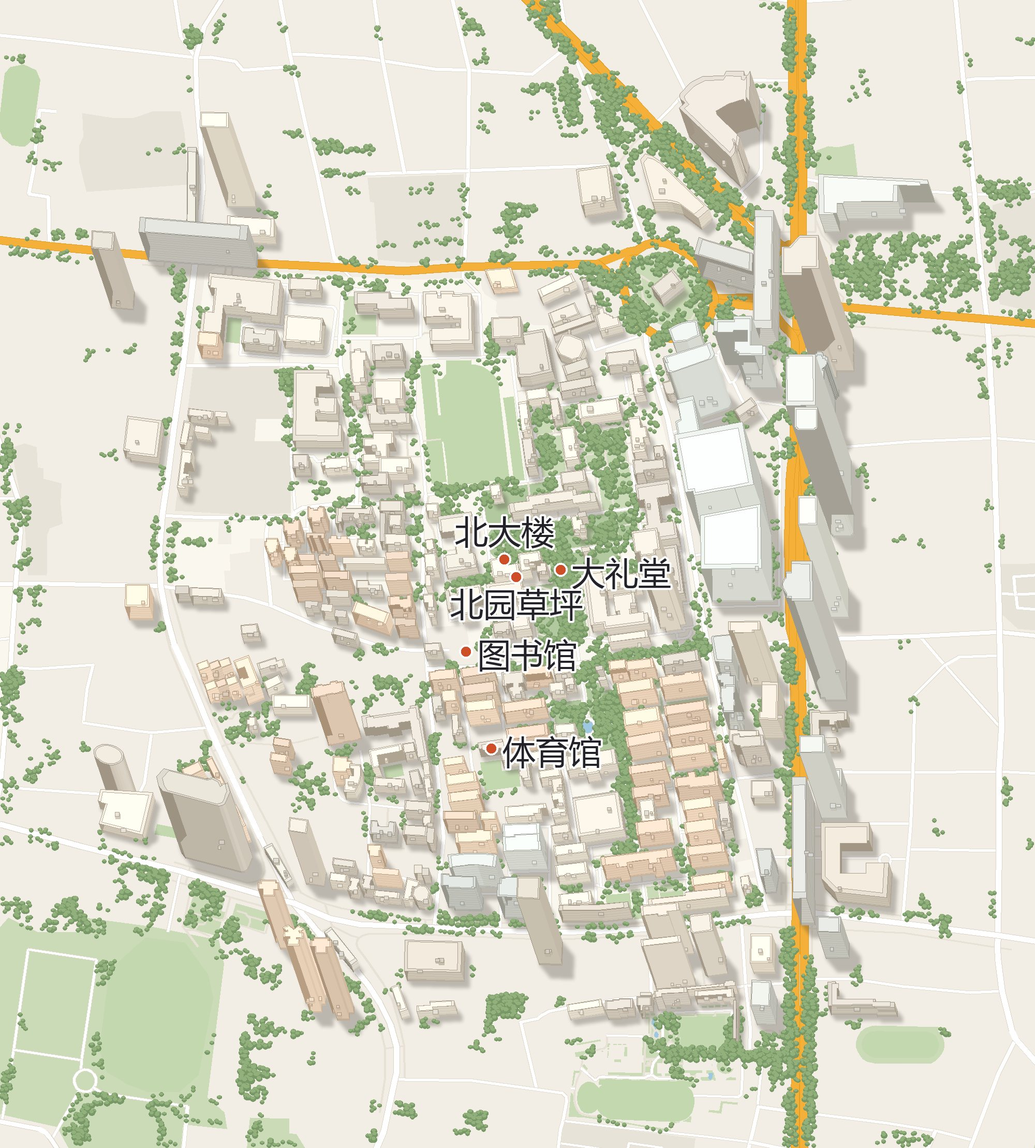
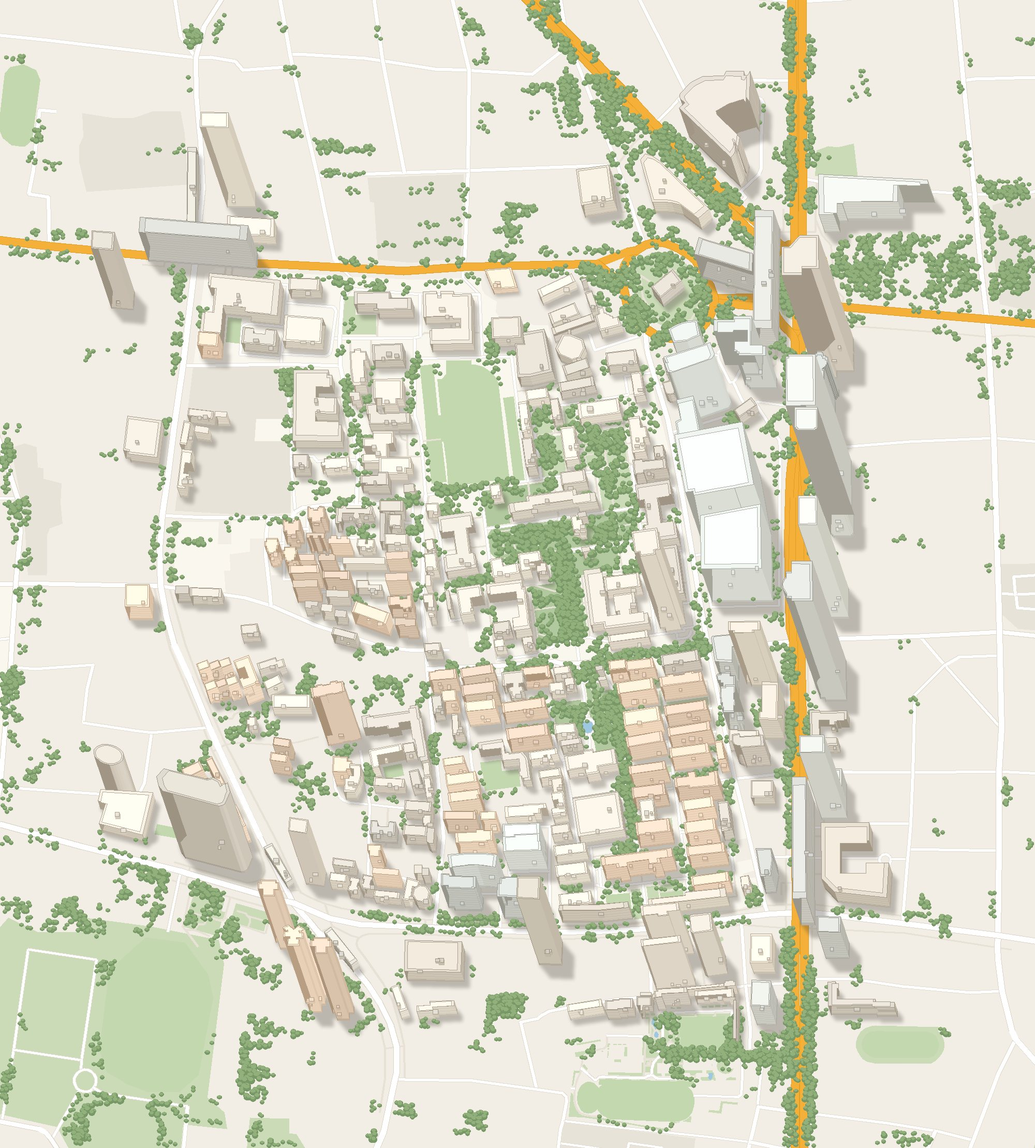
revert(basemap): 底图不要任何标注（用户最终决定）
用户看过标志物标注的实际效果后：「感觉文字还是不要了算了 红点也不要」。

- `LABEL_LANDMARKS` 置空 ⇒ `_draw_landmarks()` 直接返回 0，底图恢复干净
  （无虚线、无文字、无红点）。
- 代码与参数**保留**：用户前后改过两轮主意（虚线 → 标志物 → 都不要），
  把白名单填回去即可恢复。恢复时记得两条已踩过的坑：
  · **只标"同学认得的"** —— `landmarks` 里混着"天文与空间科学学院"这类学术楼名，
    同学看了没概念、标满反而是干扰（这是更早放弃标注的原因）；
  · **字号要按"页面显示尺寸"反推** —— 底图 2000 px 宽、在页面里被缩到约 940 px
    （缩放 ≈0.47），42 px 的字最后只剩 ~12 px、根本读不出来，64 px 才够。
- 回归测试相应放宽为：**空 = 合法**（用户决定不标）；非空则每校区 4~8 个。
- ⚠ **保留**"去掉校园南侧 3 栋挡视线的校外高楼" —— 用户没有要求撤销。

底图体积回到无标注水平：鼓楼 709 / 仙林 756 / 苏州 374 KB。
BUILD: 2026-10-04f → 2026-10-04g

Changed region(s): [[0.434, 0.4357, 0.651, 0.5913], [0.465, 0.6225, 0.589, 0.6847]]

diff --git a/relief_basemap.py b/relief_basemap.py
@@ -141,22 +141,18 @@ ROOF_MIN_PX = 16.0              # 屋顶小于这个尺寸就不做女儿墙/家
 #      实测正好命中那 3 栋（两栋 132 m + 广海大厦 120 m），下一档只到 100 m ⇒ 不会误伤。
 SKIP_OUTSOUTH_H = 120.0             # 校园南侧超过这个高度的**校外**建筑不画
 
-#   ② 起初要"校园范围蓝色虚线"，随即改成：「算了，还是不要蓝色虚线了，
-#      改成对几个标志物（只要几个）在图中做标注，这样也能帮同学们找准位置」。
-#      ⚠ **只标"同学认得的"** —— 这才是关键。文档里记着当初放弃地标标注的原因：
-#      `landmarks` 里混着"天文与空间科学学院"这类**学术楼名**，同学看了没概念、
-#      标了反而是干扰。所以这里用**白名单**，按"标志性建筑 / 生活设施 / 自然地物"挑，
-#      每校区 5~6 个，宁少勿多。
-# 每项 = (名字, 文字摆放方向)。方向是用来**错开**挨得近的几个点的 ——
-# 北大楼 / 大礼堂 / 北园草坪 在现实里几乎挤在一起，全往右放会叠成一团（第一版就是这样）。
-LABEL_LANDMARKS: dict[str, list[tuple[str, str]]] = {
-    "gulou": [("北大楼", "top"), ("大礼堂", "right"), ("北园草坪", "bottom"),
-              ("南京大学图书馆（鼓楼）", "right"), ("体育馆", "right")],
-    "xianlin": [("杜厦图书馆", "right"), ("南雍山", "left"), ("藜照湖", "bottom"),
-                ("二源广场", "right"), ("恩玲剧场", "bottom"), ("三组团操场", "right")],
-    "suzhou": [("图书馆", "right"), ("北大楼", "top"), ("环形食堂", "right"),
-               ("苏式园林", "right"), ("庄里山", "left"), ("运动场（西区）", "right")],
-}
+#   ② 标注这件事**前后试了两版，用户最终都不要**：
+#      起初要"校园范围蓝色虚线" → 改成"对几个标志物做标注" →
+#      看到效果后：「感觉文字还是不要了算了 红点也不要」。
+#      ⇒ **底线图保持干净**（无虚线、无文字、无红点）。
+#
+#      代码与参数**保留**，把下面的白名单填回去即可恢复（用户已经改过两轮主意）。
+#      恢复时记得这两条踩过的坑：
+#        · **只标"同学认得的"**：`landmarks` 里混着"天文与空间科学学院"这类学术楼名，
+#          同学看了没概念、标满反而是干扰（这是更早放弃标注的原因）；
+#        · **字号要按"页面显示尺寸"反推**：底图 2000 px 宽、在页面里被缩到约 940 px
+#          （缩放 ≈0.47），42 px 的字最后只剩 ~12 px、**根本读不出来**，64 px 才够。
+LABEL_LANDMARKS: dict[str, list[tuple[str, str]]] = {}   # 空 = 底图上不放任何标注
 # 图上显示的**短名**：`landmarks` 里的全名太长会吃掉半张图
 # （"南京大学图书馆（鼓楼）"在页面尺寸下能占掉 40% 的宽度），而地图上只要有"图书馆"就够认。
 LABEL_ALIAS: dict[str, str] = {

diff --git a/tools/test_static_basemap.py b/tools/test_static_basemap.py
@@ -357,9 +357,13 @@ try:
     _tot = sum(len(v) for v in _rb2.LABEL_LANDMARKS.values())
     check("标志物名单里的名字都存在于 campus_config.landmarks", not _miss,
           f"共 {_tot} 个；缺失={_miss}")
-    check("标志物每校区 4~8 个（宁少勿多，不要标满）",
-          all(4 <= len(v) <= 8 for v in _rb2.LABEL_LANDMARKS.values()),
-          str({k: len(v) for k, v in _rb2.LABEL_LANDMARKS.items()}))
+    # 用户 2026-10-04 最终决定**底图不要任何标注** ⇒ 白名单为空是**正常状态**；
+    # 非空时必须每校区 4~8 个（宁少勿多，别标满）。
+    _lm = _rb2.LABEL_LANDMARKS
+    check("标志物配置合法（空 = 用户决定不标；非空则每校区 4~8 个）",
+          (not _lm) or all(4 <= len(v) <= 8 for v in _lm.values()),
+          "空 —— 已按用户要求关闭" if not _lm
+          else str({k: len(v) for k, v in _lm.items()}))
     check("蓝色虚线已移除（用户改主意，换成标志物）",
           not hasattr(_rb2, "DRAW_CAMPUS_BOUNDARY"))
     _alias_bad = [k for k in _rb2.LABEL_ALIAS

diff --git a/site_common.py b/site_common.py
@@ -26,7 +26,7 @@ ADMIN_PAGE = "管理员"
 
 # 构建版本：显示在侧边栏，用来确认线上部署的是哪一版。
 # 改代码时**一起改这个**，push 后刷新线上即可确认是否真的更新了。
-BUILD = "2026-10-04f"
+BUILD = "2026-10-04g"
 
 # 页面文件（Streamlit 按文件路由：根目录 app.py = "/"，pages/ 下的各占一个路径）
 SUBMIT_FILE = "app.py"
